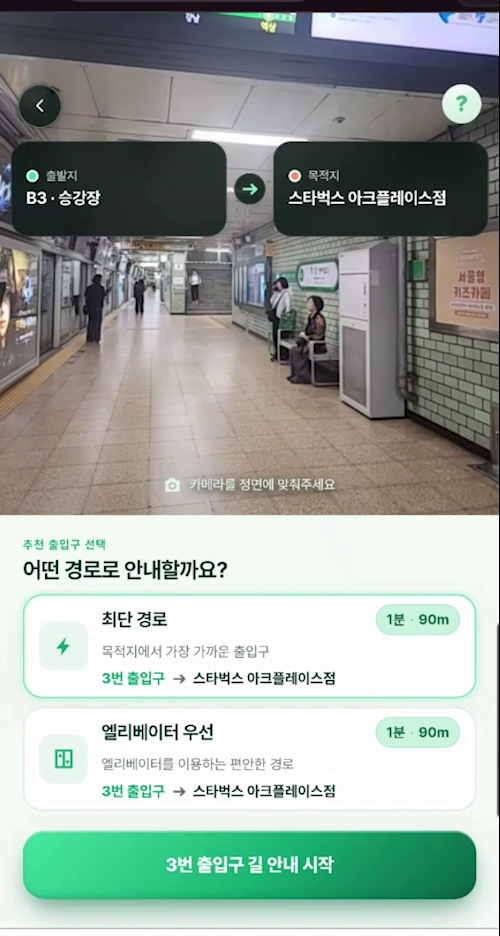
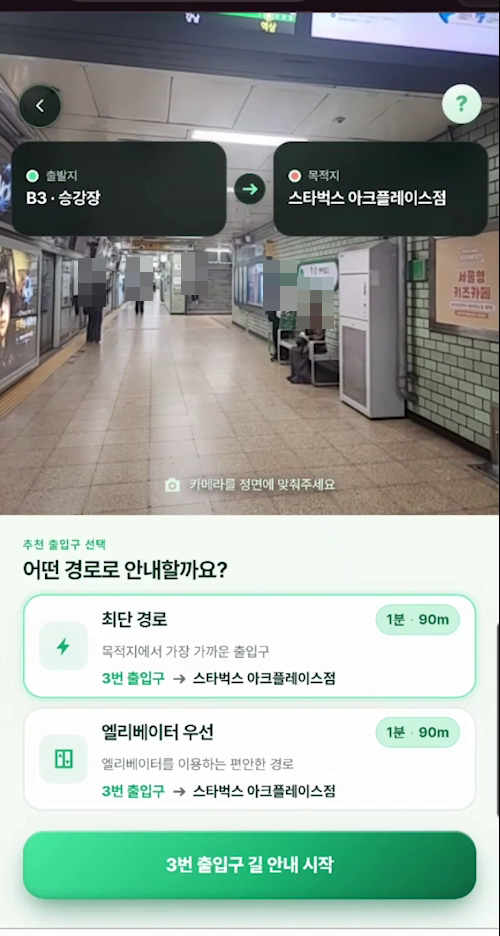
anonymize people in service screenshots

diff --git a/README.md b/README.md
@@ -63,7 +63,7 @@ MVP 필수 기능은 다음과 같습니다.
 
 ## 서비스 화면
 
-시연 환경은 Android Chrome이며, 아래 화면은 브라우저 UI를 제외한 실제 사용자 웹앱 영역입니다.
+시연 환경은 Android Chrome이며, 아래 화면은 브라우저 UI를 제외한 실제 사용자 웹앱 영역입니다. 촬영 중 포함된 행인의 얼굴은 개인정보 보호를 위해 모자이크 처리했습니다.
 
 ### 1. 여정 설정
 
